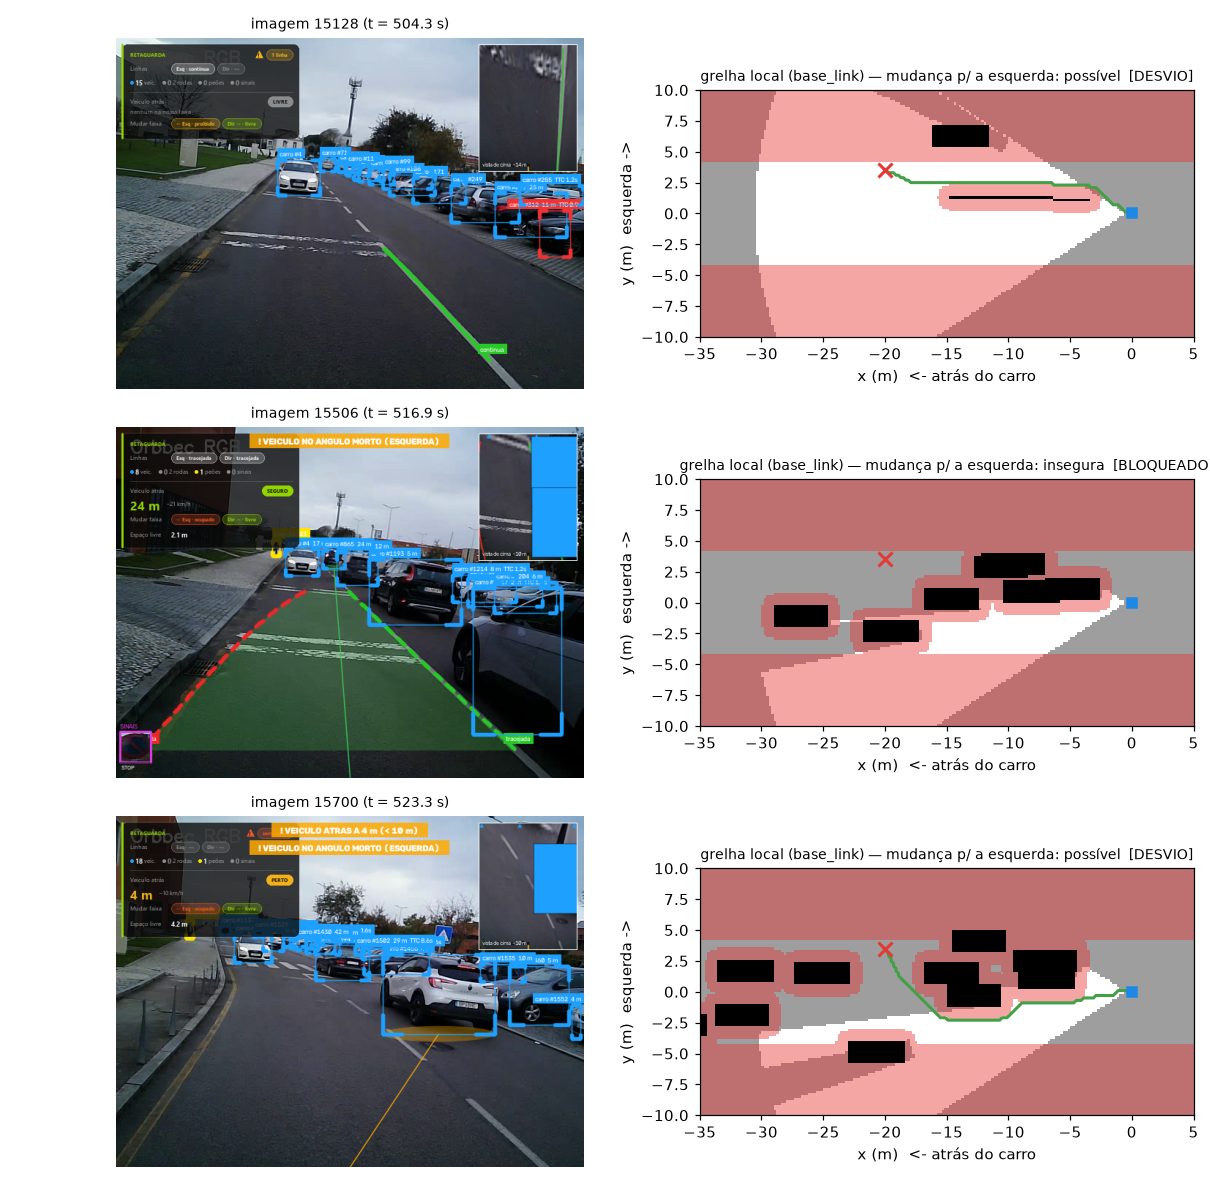
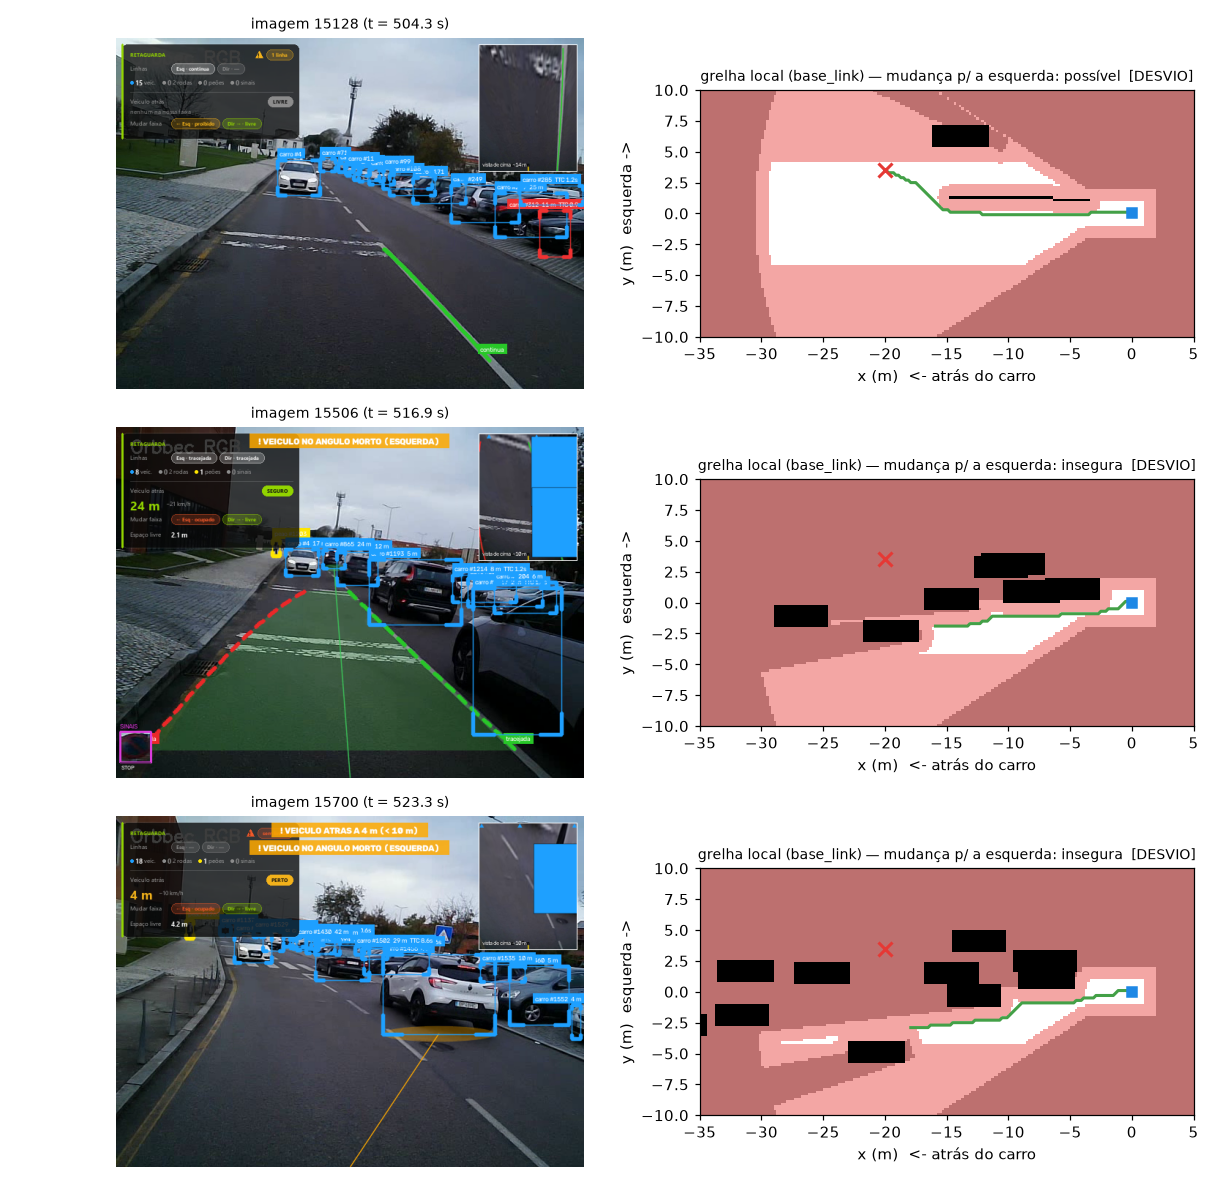
Grelha: o que a câmara não vê deixa de contar como livre na mudança de faixa
- planeador do grupo com desconhecido_livre: false — o A* contornava os carros pela
  zona escondida atrás deles e dizia "mudança possível"
- o próprio carro e os primeiros 3 m atrás dele ficam livres (de onde o caminho parte)
- figura da grelha refeita; README sem a percentagem calculada com a regra antiga

diff --git a/src/va_g06/va_g06/grelha.py b/src/va_g06/va_g06/grelha.py
@@ -32,6 +32,8 @@ PARAMS = dict(
     alcance_livre=30.0,        # m: até onde o chão visível conta como livre
     n_raios=120,               # direções do contorno da zona visível
     linhas_continuas=True,     # marcar as linhas contínuas como ocupadas
+    margem_carro=2.0,          # m: meia largura livre à volta do próprio carro
+    zona_proxima=3.0,          # m atrás da câmara tratados como vistos (ver construir)
 )
 
 
@@ -96,6 +98,14 @@ def construir(res, pose_camara=(-0.5, 0.0, math.pi), par=None):
     # raio a raio, e sem falhas entre raios ao longe)
     xe, ye = para_base(alc * np.cos(ang), alc * np.sin(ang))
     g.marcar_poligono([(tx, ty)] + list(zip(xe, ye)), valor=LIVRE)
+    # o próprio carro e os primeiros metros atrás dele (onde a câmara ainda não vê o chão, mas
+    # vê um veículo — aparece cortado no fundo da imagem e é marcado a seguir): livre, com a
+    # largura do carro + a margem de inflação do planeador. É de onde o caminho parte; sem isto,
+    # com o desconhecido bloqueado, a inflação fechava o "bico" estreito junto à câmara.
+    m = p["margem_carro"]
+    x0, x1 = para_base(p["zona_proxima"], 0.0)[0], 2.0      # até 2 m à frente: a carroçaria
+    g.marcar_poligono([(min(x0, x1), -m), (max(x0, x1), -m), (max(x0, x1), m), (min(x0, x1), m)],
+                      valor=LIVRE)
 
     # --- OCUPADO: caixas dos agentes no chão ---
     for d, lat, comp, larg in caixas:

diff --git a/src/va_g06/test/test_grelha.py b/src/va_g06/test/test_grelha.py
@@ -48,7 +48,7 @@ def test_mudanca_de_faixa_so_chega_ao_objetivo_com_a_faixa_livre():
     """Objetivo na faixa da direita, 20 m atrás. O A* comum procura a célula livre mais
     próxima do objetivo: com a faixa livre o caminho CHEGA lá; com um camião nessa faixa
     fica noutra célula (ou não há caminho = BLOQUEADO) -> mudança de faixa insegura."""
-    p = ParametrosPlaneador(raio_inflacao=1.0, desconhecido_livre=True,
+    p = ParametrosPlaneador(raio_inflacao=1.0, desconhecido_livre=False,
                             corredor_y_min=-5.25, corredor_y_max=5.25)   # como em params.yaml
     obj = (-20.0, -3.5)
     livre = planear(construir(_res(), POSE), (0.0, 0.0), obj, p)

diff --git a/tools/figura_grelha.py b/tools/figura_grelha.py
@@ -63,7 +63,8 @@ def main():
         if k in alvo:
             g = construir(res)
             r = planear(g, (0.0, 0.0), tuple(a.objetivo),        # os mesmos de params.yaml
-                        ParametrosPlaneador(raio_inflacao=1.0, corredor_y_min=-5.25, corredor_y_max=5.25))
+                        ParametrosPlaneador(raio_inflacao=1.0, desconhecido_livre=False,
+                                            corredor_y_min=-5.25, corredor_y_max=5.25))
             chega = bool(r.caminho_xy) and math.dist(r.caminho_xy[-1], a.objetivo) < 0.5
             paineis.append((k, desenho.desenhar(fr, res)[:, :, ::-1], g, r, chega))
         k += 1

diff --git a/README.md b/README.md
@@ -58,7 +58,7 @@ câmara, salta imagens em vez de acumular atraso.
 | Valor | O que é |
 |---|---|
 | **100 ocupado** | veículos, duas rodas e peões como caixas no chão (distância e posição lateral pelo modelo monocular de chão plano); linhas **contínuas** (não se podem atravessar) |
-| **0 livre** | o chão visível: raios desde a câmara, dentro do campo de visão (66°), até ao primeiro obstáculo ou 30 m |
+| **0 livre** | o chão visível: dentro do campo de visão (66°), desde a câmara até ao primeiro obstáculo ou 30 m; e o próprio carro + 3 m atrás dele |
 | **−1 desconhecido** | o que está escondido atrás de um veículo, fora do campo de visão, longe demais, ou à frente do carro |
 
 A pose da câmara vem do `/tf_static` (URDF); sem TF (p. ex. um bag sem `/tf_static`) usa-se a
@@ -68,7 +68,10 @@ pose por omissão do parâmetro `pose_camara_omissao`.
 **faixa ao lado, 20 m atrás** (`objetivo_x: -20`, `objetivo_y: 3.5` = faixa da esquerda;
 −3,5 = direita, em `src/va_g06/config/params.yaml`) e o corredor é a estrada (a nossa faixa e as
 duas ao lado, |y| ≤ 5,25 m — sem isto o A* contornaria os carros pelo passeio, como na figura 2b
-da aula). O A* comum procura a célula livre mais
+da aula). O que a câmara não vê (escondido atrás de um carro, fora do campo de visão) **não conta
+como livre** (`desconhecido_livre: false`); só o próprio carro e os primeiros 3 m atrás dele (onde
+um veículo apareceria cortado no fundo da imagem) ficam livres, para o caminho poder partir. O A*
+comum procura a célula livre mais
 próxima do objetivo: se o caminho **chega** à faixa pedida, a mudança é possível; se fica
 noutra célula (veículo nessa faixa) ou o estado é `BLOQUEADO`, a mudança é insegura. (O estado
 `DESVIO` aparece mesmo com a faixa livre, porque o caminho até um objetivo na diagonal é em
@@ -148,7 +151,6 @@ Figuras geradas com `python tools/figura_grelha.py data/passeio_20261120_091854/
 | Veículos seguidos que se **afastam** da câmara | 96% (1 211 de 1 263) — coerente com uma câmara traseira em marcha |
 | Veículo atrás na nossa faixa | 16% do tempo (8% a distância segura, 8% perto); perigo (TTC ≤ 1 s) em 3% das imagens; TTC mínimo 0,3 s |
 | Mudança de faixa possível (perceção) | esquerda 68%, direita 80% do tempo |
-| Grelha + A* (objetivo 20 m atrás na faixa ao lado) | o caminho chega à faixa: esquerda 94%, direita 99% das amostras |
 | Sinais reconhecidos (exemplos) | STOP, lomba (A2a), cedência (B1), trânsito proibido (C2), paragem e estacionamento proibidos (C16), limites 30/50/60, sentido proibido, rotunda, pista de velocípedes |
 
 ![Deteções por imagem](docs/img/volta_deteccoes.png)
